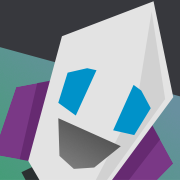
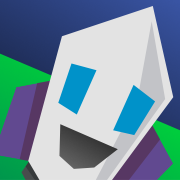
improve pico8 layout sizes, update rockkid.png

diff --git a/layouts/pico8.html b/layouts/pico8.html
@@ -181,9 +181,9 @@
     -moz-user-select: none; /* Firefox */
     -ms-user-select: none; /* Internet Explorer/Edge */
     user-select: none; /* Non-prefixed version, currently supported by Chrome and Opera */
-    height: 120px;
-    line-height: 120px;
-    font-size: 60px;
+    height: 90px;
+    line-height: 90px;
+    font-size: 35px;
     font-weight: bold;
     background: #29ADFF;
     border: 2px solid #1D2B53;
@@ -194,7 +194,7 @@
   }
   @media screen and (max-height: 640px) and (min-width: 500px) {  /* make canvas smaller for small screen-height to make room for touch-buttons */
     canvas#canvas { max-width: 420px; height: auto; }
-    .btn { height: 80px; line-height: 80px; } }
+    .btn { height: 65px; line-height: 65px; } }
   @media screen and (max-height: 520px) {   /* less height on low screens */
     .btn { height: 50px; line-height: 50px; } }
   .btn--wide { width: 35%; max-width: 180px; }
@@ -206,9 +206,9 @@
 </style>
 <div id="btns-wrapper" class="show-if-touch btns clear">
   <div id="btn-state" class="btn-state"></div> <!-- Debug info for set state. Remove :) -->
-  <div id="btn-leftRight" class="btn btn--extra-wide pull-left">⮜ ⮞</div>
-  <div id="btn-fire-o" class="btn pull-right">●</div>
-  <div id="btn-fire-x" class="btn pull-right">×</div>
+  <div id="btn-leftRight" class="btn btn--extra-wide pull-left">← &nbsp; →</div>
+  <!--<div id="btn-fire-o" class="btn pull-right">●</div>-->
+  <div id="btn-fire-x" class="btn btn--wide pull-right">×</div>
   <div class="clear"></div>
 </div>
 
@@ -265,7 +265,7 @@
       };
 
     addButton(document.getElementById("btn-fire-x"), KEY.X);
-    addButton(document.getElementById("btn-fire-o"), KEY.O);
+    //addButton(document.getElementById("btn-fire-o"), KEY.O);
     addXAxis(document.getElementById("btn-leftRight"));
 
     document.getElementById("btns-wrapper").addEventListener("touchstart", function(evt){ evt.preventDefault(); }, false); // prevent "tilt-zooming" when accidentally touching between the buttons
